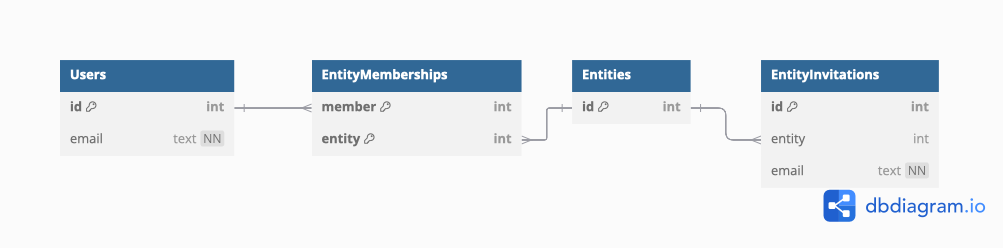
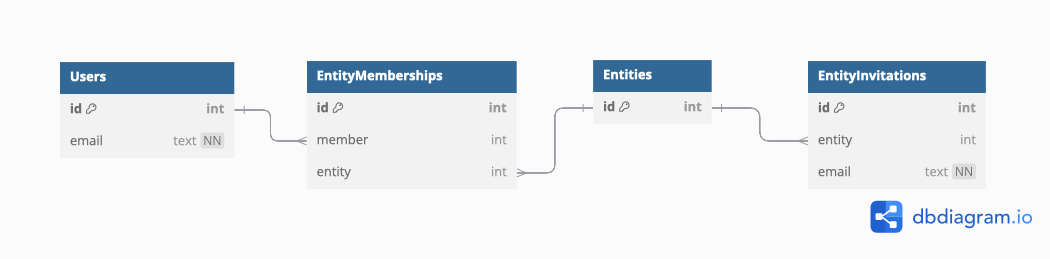
wip

diff --git a/_posts/2024-11-02-memberships-and-invitations.md b/_posts/2024-11-02-memberships-and-invitations.md
@@ -6,7 +6,6 @@ categories: [Database patterns, Software Design Toolkit]
 ---
 
 In which I present the first of several reusable and adaptable patterns for common application requirements. The patterns are intended for prototypes, mvp projects, or small hobbit scale projects that won’t see more than a few thousand users.
-
 These came about from my experience working on a project that evolved rapidly in an ad hoc fashion. Your application code can be as shitty as you like - refactoring it is a lot easier than refactoring your data model once it’s started filling with production data.
 Worse still, the data model you choose has a pervasive, subtle, and far reaching effect on _how the code is written_. This is especially true for code written at speed. Getting the data model correct to begin with saves a lot of pain later. It also makes it easier to extend and update without major migrations.
 
@@ -29,27 +28,28 @@ Here’s the DBML model for the pattern:
 
 ```
 table Users {
-  id int pk
-  email text [not null, unique, note: "Always lowercase"]
+  id int pk
+  email text [not null, unique, note: "Always lowercase"]
 }
 
 table Entities {
-  id int pk
+  id int pk
 }
 
 table EntityMemberships {
-  member int [ref:> Users.id]
-  entity int [ref:> Entities.id]
-  
-  Indexes {
-    (member, entity) [pk]
-  }
+  id int pk
+  member int [ref:> Users.id]
+  entity int [ref:> Entities.id]
+
+  Indexes {
+    (member, entity) [unique]
+  }
 }
 
 table EntityInvitations {
-  id int pk
-  entity int [ref:> Entities.id]
-  email text [not null]
+  id int pk
+  entity int [ref:> Entities.id]
+  email text [not null]
 }
 ```
 
@@ -68,135 +68,135 @@ In this extension, each invite can have only a single identifier. If the use cas
 
 ![db diagram for the pattern extension]({% link /assets/posts/memberships-and-invitations/extension.png %})
 
-```
+```dbml
 table Users {
-  id int pk
-  email text [not null, unique, note: "Always lowercase"]
+  id int pk
+  email text [not null, unique, note: "Always lowercase"]
 }
 
 table Entities {
-  id int pk
+  id int pk
 }
 
 table EntityMemberships {
-  member int [ref:> Users.id]
-  entity int [ref:> Entities.id]
-  memberType MemberType
+  id int pk
+  member int [ref:> Users.id]
+  entity int [ref:> Entities.id]
+  memberType int [ref:>MemberTypes.id, not null]
 
-  Indexes {
-    (member, entity) [pk]
-  }
+  Indexes {
+    (member, entity) [unique]
+  }
 }
 
 table EntityInvitations {
-  id int pk
-  createdAt datetime [not null, default:`now()`]  
-  expiresAt datetime [not null]
-  actionedAt datetime [null]
-  action InvitationAction [null]
-  entity int [ref:> Entities.id]
-  claimant int [ref:>Users.id, null]
+  id int pk
+  createdAt datetime [not null, default:`now()`]
+  expiresAt datetime [not null]
+  actionedAt datetime [null]
+  action int [ref:>InvitationActions.id, null]
+  entity int [ref:> Entities.id]
+  claimant int [ref:>Users.id, null]
 }
 
 
 table EntityInvitationIdentifier {
-  id int pk
-  invitation int [ref:- EntityInvitations.id, not null]
-  identifier text [not null]
-  identifierType IdentifierType [not null]
+  id int pk
+  invitation int [ref:- EntityInvitations.id, not null]
+  identifier text [not null]
+  identifierType int [ref:>IdentifierTypes.id, not null]
 }
 
-// Enum Definitions
-enum MemberType {
-  CREATOR // Same as owner
-  OWNER // Read/write/invite/delete access
-  COLLABORATOR // Read/write access
-  AUDITOR // Read only access
+// Lookup tables Definitions
+table MemberTypes {
+  id int pk
+  memberType text [not null]
 }
 
-enum InvitationAction {
-  ACCEPTED
-  REJECTED
-  EXPIRED
+table InvitationActions {
+  id int pk
+  actionType text [not null]
 }
 
-enum IdentifierType {
-  EMAIL
-  SMS
-  INVITE_CODE
+table IdentifierTypes {
+  id int pk
+  identifierType text [not null]
 }
 ```
 
 ## Example Usage
 
 So far the schemas presented have been for a theoretical “Entity”. To demonstrate the application in a more real way, here’s the schema for ZenKanban. ZenKanban is a trello clone, supporting simple team based collaboration, as well as collaboration on specific boards.
+
 ![db diagram for the Zen Kanban app]({% link /assets/posts/memberships-and-invitations/zenkanban.png %})
 
-```
+```dbml
 table Users {
-  id int pk
-  email text [not null, unique, note: "Always lowercase"]
+  id int pk
+  email text [not null, unique, note: "Always lowercase"]
 }
 
 table Teams {
-  id int pk
-  title text
+  id int pk
+  title text
 }
 
 table TeamMemberships {
-  member int [ref:> Users.id]
-  team int [ref:> Teams.id]
-  memberType MemberType
-  Indexes {
-    (member, team) [pk]
-  }
+  id int pk
+  member int [ref:> Users.id]
+  team int [ref:> Teams.id]
+  memberType MemberType
+  Indexes {
+    (member, team) [unique]
+  }
 }
 
 table TeamInvitations {
-  id int pk
-  email text [not null]
-  team int [ref:>Teams.id, not null]
+  id int pk
+  email text [not null]
+  team int [ref:>Teams.id, not null]
 }
 
 table Boards {
-  id int pk
-  title text [not null]
-  // If there's no team relation, it's a private user board
-  team int [ref:> Teams.id, null]
+  id int pk
+  title text [not null]
+  // If there's no team relation, it's a private user board
+  team int [ref:> Teams.id, null]
 }
 
 table BoardMemberships {
-  member int [ref:> Users.id]
-  board int [ref:> Boards.id]
-  memberType MemberType
-  Indexes {
-    (member, board) [pk]
-  }
+  id int pk
+  member int [ref:> Users.id]
+  board int [ref:> Boards.id]
+  membershipType int [ref:> MemberTypes.id, not null]
+  Indexes {
+    (member, board) [unique]
+  }
 }
 
 table BoardInvitations {
-  id int pk
-  email text [not null]
-  board int [ref:>Boards.id, not null]
+  id int pk
+  email text [not null]
+  board int [ref:>Boards.id, not null]
 }
 
 table Columns {
-  id int pk
-  board int [ref:> Boards.id, not null]
-  title text [not null]
+  id int pk
+  board int [ref:> Boards.id, not null]
+  title text [not null]
 }
 
 table Cards {
-  id int pk
-  column int [ref:> Columns.id, not null]
-  title text [not null]
-  content text [not null]
+  id int pk
+  column int [ref:> Columns.id, not null]
+  title text [not null]
+  content text [not null]
 }
 
-// Enums
-enum MemberType {
-  OWNER // Read/write/invite/delete access
-  COLLABORATOR // Read/write access
+// Lookup tables
+table MemberTypes {
+  id int pk
+  memberType text [not null]
 }
 ```
 
